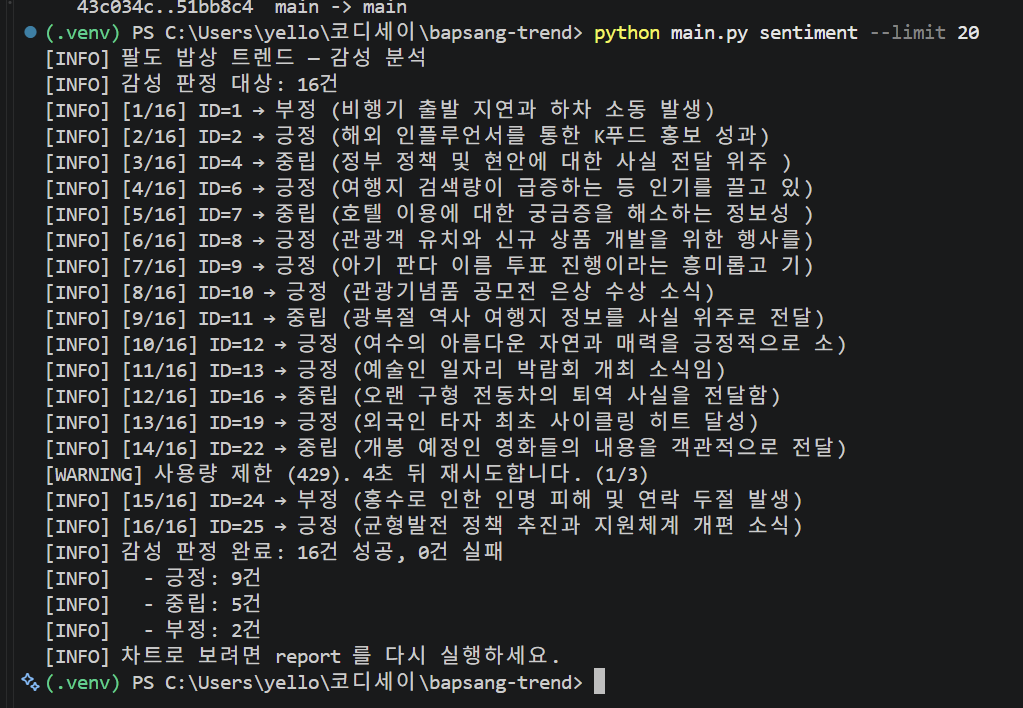
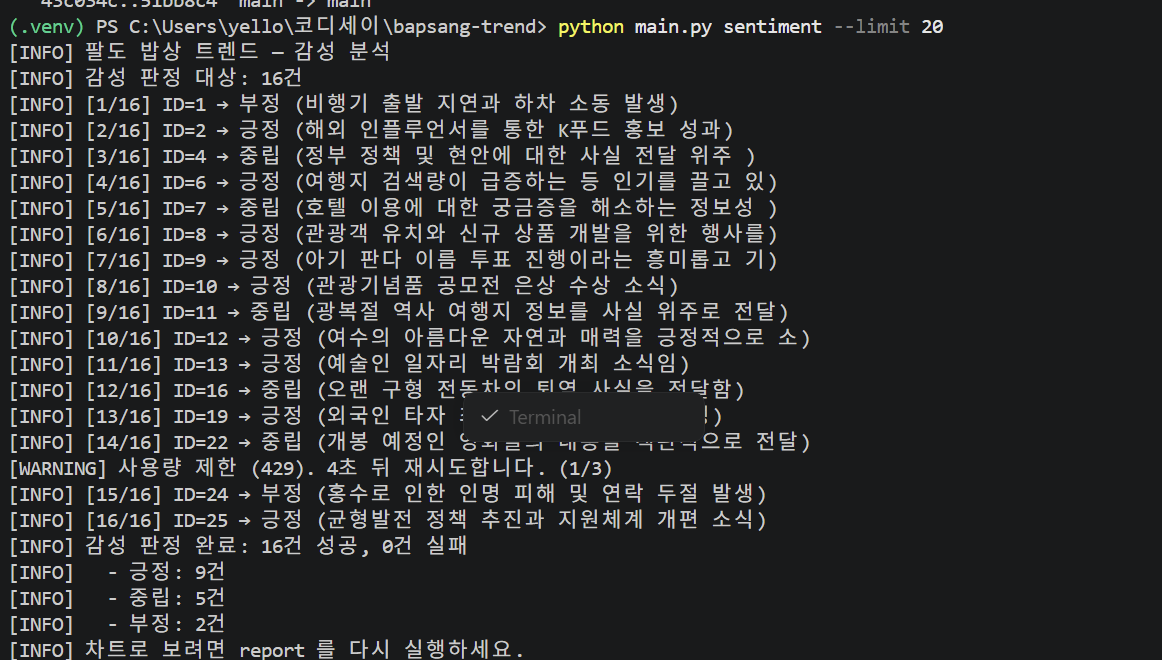
커밋15: [보너스] README 전면 작성 + daily.ps1 - 스케줄링 문서화, 한글 경로 인코딩 대응

Changed region(s): [[0.0, 0.0, 0.9697, 1.0]]

diff --git a/README.md b/README.md
@@ -1,48 +1,230 @@
 # 팔도 밥상 트렌드 (bapsang-trend)
 
-향토음식·미식 여행 뉴스를 자동 수집하고, AI로 요약·분석해
-"지금 어느 지역의 어떤 음식이 뜨는가"를 리포트로 뽑아내는 CLI 프로그램.
+향토음식·미식 여행 뉴스를 자동 수집해 AI로 요약·분석하고,
+**"지금 어느 지역의 어떤 음식이 뜨는가"** 를 리포트로 뽑아내는 CLI 프로그램.
 
-> 2026년 AI 활용 학습 Term Project [Project B] 제출물 · 작성자 김진아
-
-## 무엇을 하는가
+> 2026년 AI 활용 학습 Term Project [Project B] · 작성자 김진아
 
 ```
 수집(fetch) → 정제(clean) → AI 요약(summarize) → AI 분석(analyze) → 리포트(report) → 내보내기(export)
 ```
 
-## 설치
+---
+
+## 1. 빠른 시작
 
 ```powershell
+# 1) 가상환경
 python -m venv .venv
 .\.venv\Scripts\Activate.ps1
+
+# 2) 패키지
 python -m pip install requests beautifulsoup4 matplotlib openpyxl python-dotenv
-Copy-Item .env.example .env   # 그리고 .env 안에 Gemini API 키를 채운다
+
+# 3) API 키 (코드에 직접 적지 않는다)
+Copy-Item .env.example .env
+notepad .env          # GEMINI_API_KEY= 뒤에 발급받은 키를 붙여넣는다
+
+# 4) 전체 흐름 한 번 돌려보기
+python main.py fetch --limit 50
+python main.py fetch --method crawl --target clean --limit 30
+python main.py clean
+python main.py summarize --unsummarized --limit 20
+python main.py analyze
+python main.py report --save --format md
+python main.py export --format excel
 ```
 
-## 사용법
+---
 
-```powershell
-python main.py --help
-```
+## 2. 명령어
 
-(각 명령의 자세한 사용법은 구현이 끝나는 대로 채웁니다.)
+### 필수 서브커맨드
 
-## 폴더 구조
+| 명령 | 하는 일 | 주요 옵션 |
+|---|---|---|
+| `fetch` | 뉴스 수집 → raw 저장 | `--method rss/crawl/all` `--target all/clean` `--source` `--limit` |
+| `clean` | 정제 → clean 저장 | `--policy skip/upsert` `--rebuild` `--limit` |
+| `summarize` | AI 요약 | `--all` `--id N` `--unsummarized` `--limit` |
+| `analyze` | AI 인사이트 분석 | `--date-from` `--date-to` `--category` `--show` |
+| `report` | 차트 + 리포트 | `--save` `--format md/txt` `--top N` |
+| `export` | 파일로 내보내기 | `--format csv/jsonl/excel` `--status` `--category` |
+
+### 보너스 서브커맨드
+
+| 명령 | 하는 일 | 주요 옵션 |
+|---|---|---|
+| `list` | 기사 목록 조회 | `--category` `--date-from` `--date-to` `--keyword` `--status` `--page` `--size` |
+| `show` | 기사 상세 조회 | `show <ID>` |
+| `sentiment` | 감성(긍정/중립/부정) 판정 | `--all` `--limit` |
+
+공통 옵션: `--log-level DEBUG|INFO|WARNING|ERROR`
+
+---
+
+## 3. 폴더 구조
 
 | 경로 | 역할 |
 |---|---|
 | `main.py` | CLI 진입점 — 명령을 받아 알맞은 모듈에 넘긴다 |
-| `config.py` | config.json·.env 읽기, 키 마스킹, 로깅 설정 |
-| `config.json` | 뉴스 소스 URL, 카테고리 분류 규칙, 중복 정책 |
-| `.env` | Gemini API 키 (git에 올라가지 않음) |
-| `data/` | SQLite 저장소 (raw / clean) |
+| `config.py` | config.json·.env 읽기, API 키 마스킹, 로깅 설정 |
+| `collector.py` | RSS 수집 + 크롤링, 타임아웃·재시도, 요청 간 지연 |
+| `cleaner.py` | 정제 5규칙 (검증·정규화·날짜통일·결측처리·주제분류) |
+| `storage.py` | SQLite raw/clean/analyses 테이블, skip·upsert |
+| `ai_client.py` | Gemini 호출 — 요약·인사이트·감성 |
+| `reporter.py` | matplotlib 차트, 리포트, CSV/JSONL/Excel |
+| `config.json` | 뉴스 소스 URL, 카테고리 규칙, 중복 정책, 모델명 |
+| `.env` | GEMINI_API_KEY (git에 올라가지 않음) |
+| `data/` | SQLite 저장소 |
 | `output/` | 차트 PNG, 리포트, 내보낸 파일 |
 | `logs/` | 실행 로그 |
 
-## 이전 과제와의 연결
+---
+
+## 4. 설계 메모
+
+### raw 와 clean 을 나눈 이유
+
+`raw` 는 받은 그대로, `clean` 은 정제본이다.
+정제 규칙(카테고리 키워드)이 잘못된 것을 나중에 알았을 때,
+raw 가 남아 있으면 **뉴스 사이트에 다시 요청하지 않고** 정제만 다시 돌리면 된다.
+
+실제로 이 프로젝트에서 '번개장터'(중고거래) 기사가 `장터` 키워드 때문에
+미식축제로 분류된 일이 있었다. 규칙을 고치고 `clean --rebuild` 만 실행해
+6건을 바로잡았다. 재수집은 한 번도 하지 않았다.
+
+### RSS 와 크롤링의 역할 분담
+
+| | RSS | 크롤링 |
+|---|---|---|
+| 얻는 것 | 제목·요약(약 200자)·링크 | 본문 전체 (600~4400자) |
+| 장점 | 형식이 정해져 깨질 일이 적고 서버 부담이 작다 | 본문을 얻을 수 있다 |
+| 단점 | 본문이 없다 | 사이트 디자인이 바뀌면 코드가 깨진다 |
+
+AI 요약의 재료는 본문이어야 한다. RSS 요약문 203자를 다시 요약해봐야
+의미가 없다. 그래서 RSS로 목록을 받고, 그 주소를 크롤링해 본문을 채운다.
+
+크롤링의 본문 찾기는 2단계다.
+1. `config.json` 의 선택자를 순서대로 시도 (`div.art_body` 등)
+2. 전부 빗나가면 `<p>` 글자수가 가장 많은 영역을 본문으로 추정
+
+2단계가 있으면 사이트 디자인이 바뀌어도 프로그램이 멈추지 않는다.
+어느 경로로 찾았는지 로그에 남기므로, 1단계가 계속 실패하면 선택자를 고쳐야 한다는 신호가 된다.
+
+### 오류를 종류별로 다르게 다룬다
+
+| 상황 | 판단 | 동작 |
+|---|---|---|
+| 4xx | 내 잘못 (주소·키가 틀림) | 즉시 포기. 재시도해도 같다 |
+| 5xx / 429 | 저쪽 사정 | 2초 → 4초 → 8초 지수 백오프 |
+| 타임아웃 | 저쪽 사정과 동일 취급 | 재시도 |
+| AI 404 | 그 계정에서 못 쓰는 모델 | 다음 모델로 자동 전환 |
+
+한 소스가 실패해도 다음 소스로 넘어가고, 기사 하나가 실패해도 다음 기사로 넘어간다.
+
+### AI 호출을 세 가지로 나눈 이유
+
+| | 받는 형태 | 왜 |
+|---|---|---|
+| 요약 | 자유 형식 문장 | 사람이 읽을 글. 틀을 씌우면 문장이 딱딱해진다 |
+| 인사이트 | JSON 스키마 | 키워드·트렌드를 프로그램이 꺼내 리포트에 써야 한다 |
+| 감성 | JSON + `enum` | 긍정/중립/부정 셋 중 하나여야 집계가 된다 |
+
+---
+
+## 5. 크롤링 정책 준수
+
+- 대상 사이트의 `robots.txt` 를 사전에 확인했다 (경향신문은 `User-agent: *` 에 대해 허용)
+- 요청 사이에 `config.json` 의 `request.delay_sec`(기본 1초)만큼 쉰다
+- 신원을 밝히는 User-Agent 를 보낸다
+- `--limit` 으로 건수를 제한한다
+- `--target clean` 으로 **정제를 통과한 기사만** 크롤링해, 쓰지 않을 기사에는 요청을 보내지 않는다
+
+---
+
+## 6. 정기 실행 스케줄링 (보너스)
+
+매일 아침 자동으로 뉴스를 모으고 리포트까지 만들려면 아래처럼 등록한다.
+
+### 6-1. 실행용 스크립트
+
+프로젝트 폴더의 `daily.ps1` 이 전체 파이프라인을 한 번에 돌린다.
+
+```powershell
+powershell -ExecutionPolicy Bypass -File .\daily.ps1
+```
+
+이 스크립트에서 두 가지를 지켰다.
+
+| 지킨 것 | 이유 |
+|---|---|
+| 경로를 적지 않고 `$PSScriptRoot` 사용 | 폴더 경로에 한글(`코디세이`)이 들어 있어, 경로를 직접 적으면 인코딩에 따라 깨진다 |
+| `python` 대신 `.venv\Scripts\python.exe` | 스케줄러는 가상환경이 켜지지 않은 상태로 실행한다 |
+| 파일을 **UTF-8 BOM** 으로 저장 | 윈도우 PowerShell 5.1 은 BOM 없는 `.ps1` 을 cp949 로 읽어 한글 주석·경로를 깨뜨린다 |
+
+### 6-2. 윈도우 — 작업 스케줄러
+
+1. 시작 메뉴에서 **작업 스케줄러** 실행
+2. 오른쪽 **작업 만들기** 클릭
+3. **일반** 탭 — 이름 `팔도 밥상 트렌드 일일 수집`, "사용자가 로그온했는지 여부에 관계없이 실행" 선택
+4. **트리거** 탭 — 새로 만들기 → 매일, 오전 7:00
+5. **동작** 탭 — 새로 만들기
+   - 프로그램/스크립트: `powershell.exe`
+   - 인수 추가: `-ExecutionPolicy Bypass -File "C:\Users\yello\코디세이\bapsang-trend\daily.ps1"`
+   - 시작 위치: `C:\Users\yello\코디세이\bapsang-trend`
+6. **조건** 탭 — "컴퓨터의 AC 전원이 켜져 있는 경우에만 시작" 해제(노트북이면)
+7. 확인 → 목록에서 오른쪽 클릭 → **실행** 으로 한 번 시험해 본다
+
+명령줄로 등록하려면 (관리자 PowerShell):
+
+```powershell
+schtasks /create /tn "BapsangTrendDaily" /tr "powershell.exe -ExecutionPolicy Bypass -File \"C:\Users\yello\코디세이\bapsang-trend\daily.ps1\"" /sc daily /st 07:00
+```
+
+### 6-3. 리눅스·맥 — cron
+
+```bash
+crontab -e
+```
+
+```
+# 매일 오전 7시에 수집·요약·리포트
+0 7 * * * cd /home/user/bapsang-trend && ./.venv/bin/python main.py fetch --limit 50 && ./.venv/bin/python main.py clean && ./.venv/bin/python main.py summarize --unsummarized --limit 20 && ./.venv/bin/python main.py report --save >> logs/cron.log 2>&1
+```
+
+cron 다섯 자리는 `분 시 일 월 요일` 이다. `0 7 * * *` 는 매일 7시 0분.
+
+### 6-4. 스케줄 실행 시 주의
+
+| 주의 | 이유 |
+|---|---|
+| 절대 경로를 쓴다 | 스케줄러는 프로젝트 폴더에서 시작하지 않는다 |
+| `.venv` 의 python 을 직접 부른다 | 가상환경이 자동으로 켜지지 않는다 |
+| 로그를 파일로 남긴다 | 실패해도 화면이 없어 눈에 띄지 않는다 (`logs/app.log` 에 이미 기록됨) |
+| API 사용량을 확인한다 | 매일 20건씩 요약하면 한 달에 600건이다 |
+
+---
+
+## 7. 알려진 한계
+
+- **키워드 기반 분류의 정밀도** — `박람회`, `맛집` 같은 낱말이 본문 어딘가에 있으면
+  주제와 무관한 기사도 들어온다. 실측 16건 중 2건이 오분류였다(약 87%).
+  `require_any`·`exclude` 조건으로 한 차례 좁혔으나 완전하지 않다.
+  다음 단계는 분류 자체를 AI에 맡기는 것이다.
+- **단일 소스** — 현재 경향신문 RSS 3종만 사용한다. `config.json` 의 `sources` 에
+  항목을 추가하면 소스를 늘릴 수 있다.
+- **본문 선택자 의존** — 다른 언론사를 추가하면 `crawl.selectors` 에
+  그 사이트의 선택자를 추가해야 1단계로 잡힌다.
+
+---
+
+## 8. 이전 과제와의 연결
 
 | 과제 | 이어받은 것 |
 |---|---|
-| A1-01 레시피 프롬프트 관리자 | 카테고리 분류 개념, CLI 메뉴 설계 |
+| 「순자 할머니 전라도 레시피북」 | 향토음식이라는 주제 |
+| A1-01 레시피 프롬프트 관리자 | 카테고리 분류 개념, CLI 설계 |
 | A1-02 travel-recommender | API 키 마스킹, 4xx/5xx 구분 재시도, JSON 스키마 강제 호출 |
+
+그리고 AI 인사이트의 `레시피 소재 제안` 항목이 이 과제의 결과를
+다시 레시피 작업으로 되돌려 보낸다.
